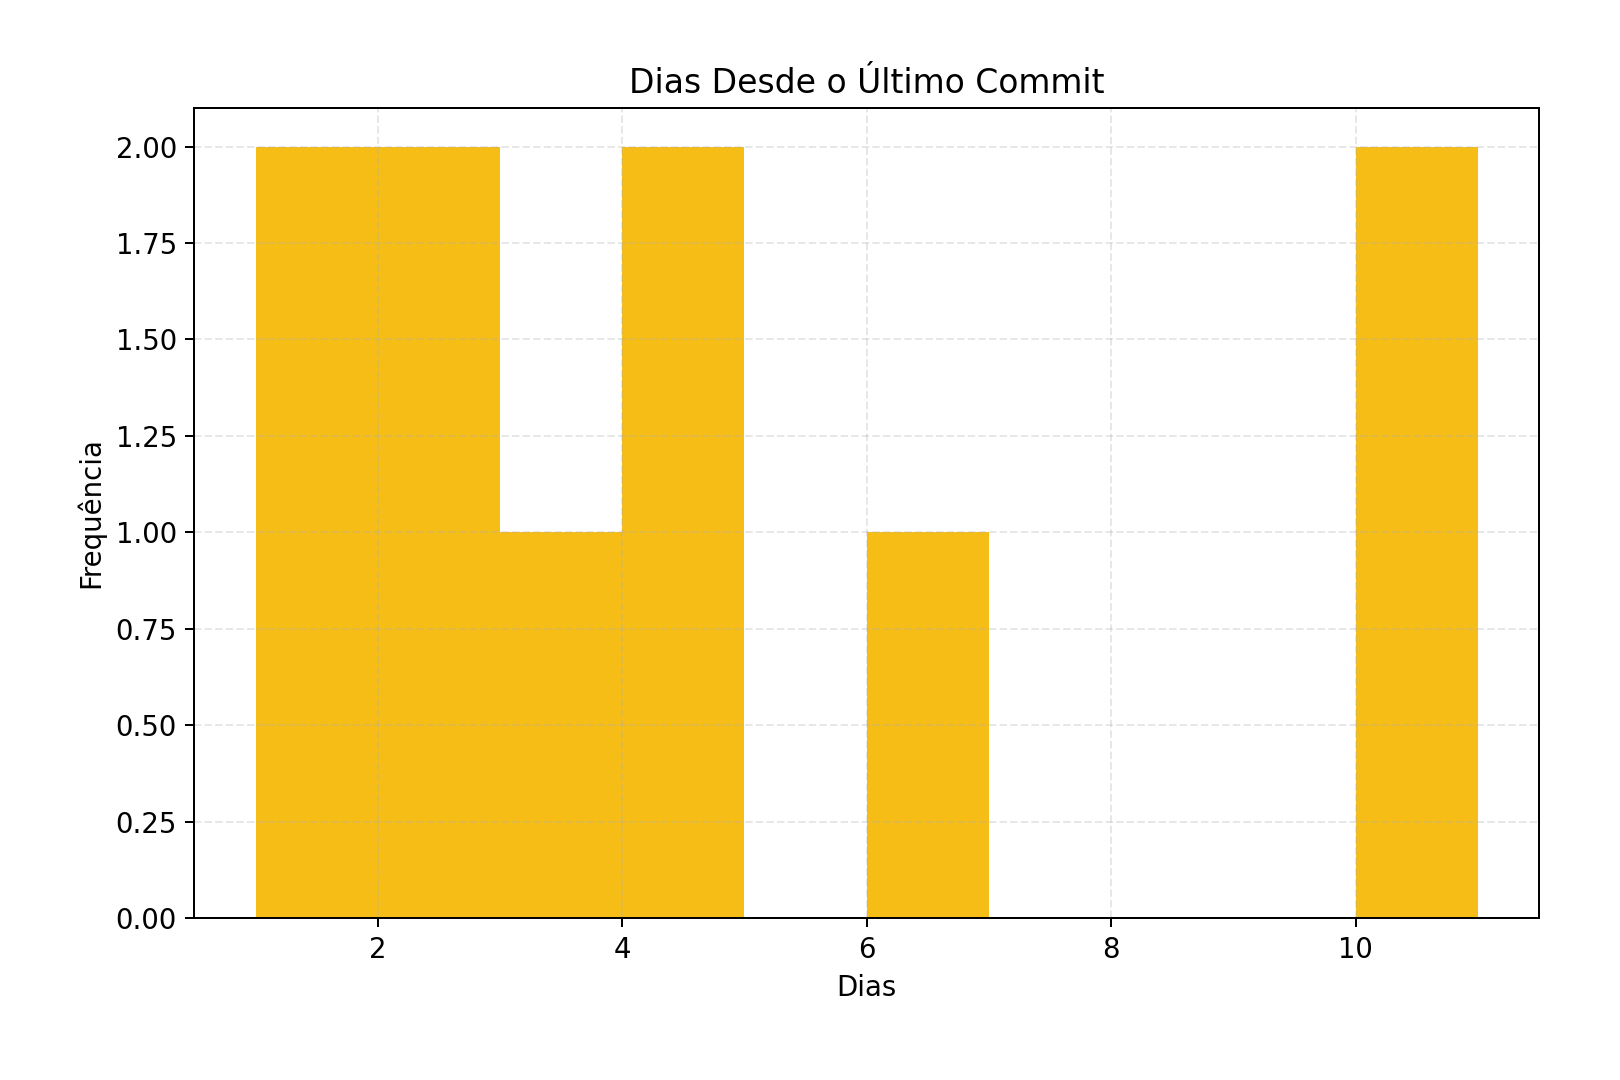
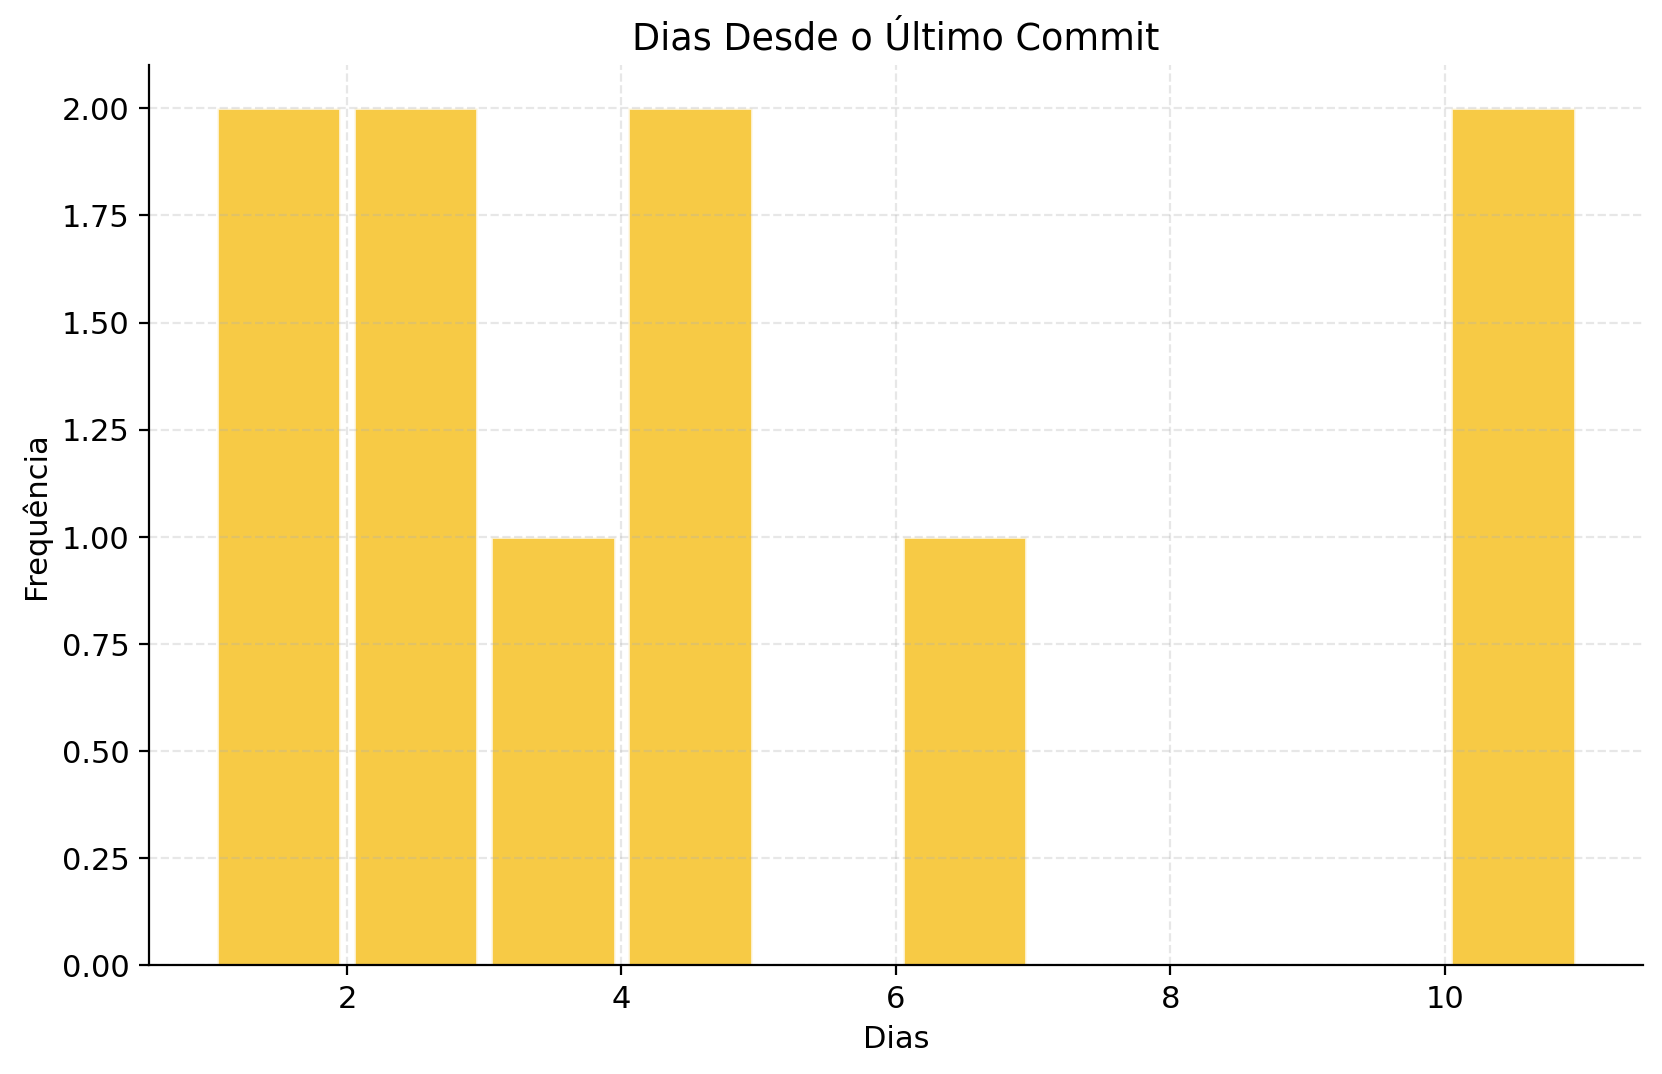
novos graficos

diff --git a/src/data_characterization.py b/src/data_characterization.py
@@ -3,7 +3,15 @@ import pandas as pd
 from pathlib import Path
 from utils import load_dataset
 
-plt.rcParams["font.size"] = 11
+# Configurações globais de estilo
+plt.rcParams.update({
+    "font.size": 11,
+    "axes.spines.top": False,
+    "axes.spines.right": False,
+    "axes.grid": True,
+    "grid.alpha": 0.3,
+    "grid.linestyle": "--"
+})
 
 def characterize(csv_path: str, out_dir: str):
     out = Path(out_dir)
@@ -13,50 +21,54 @@ def characterize(csv_path: str, out_dir: str):
     def save_fig(name: str):
         plt.tight_layout()
         plt.subplots_adjust(top=0.9, bottom=0.15, left=0.12, right=0.95)
-        plt.grid(alpha=0.3, linestyle="--")
-        plt.savefig(out / name, dpi=180)
+        plt.savefig(out / name, dpi=200, bbox_inches="tight")
         plt.close()
 
     # 1) Linguagens
-    fig, ax = plt.subplots(figsize=(9,6))
-    df["language"].value_counts().sort_values(ascending=False).plot(kind="bar", ax=ax, color="#5B8FF9")
+    fig, ax = plt.subplots(figsize=(9, 6))
+    df["language"].value_counts().sort_values(ascending=False).plot(
+        kind="bar", ax=ax, color="#5B8FF9", edgecolor="white", width=0.8
+    )
     ax.set_title("Distribuição de Repositórios por Linguagem")
     ax.set_xlabel("Linguagem")
     ax.set_ylabel("Quantidade")
+    plt.xticks(rotation=30, ha="right")
     save_fig("caracterizacao_linguagens.png")
 
-    # 2) Stars
-    fig, ax = plt.subplots(figsize=(9,6))
-    df["stars"].plot(kind="hist", bins=10, color="#FF9F6E", ax=ax)
+    # 2) Stars (Histograma)
+    fig, ax = plt.subplots(figsize=(9, 6))
+    ax.hist(df["stars"].dropna(), bins=15, color="#FF9F6E",
+            edgecolor="white", alpha=0.8, rwidth=0.9)
     ax.set_title("Distribuição de Stars")
     ax.set_xlabel("Stars")
     ax.set_ylabel("Frequência")
     save_fig("caracterizacao_stars_hist.png")
 
-    # 3) Forks vs Stars
-    fig, ax = plt.subplots(figsize=(9,6))
-    df.plot(kind="scatter", x="stars", y="forks", ax=ax, color="#5AD8A6", alpha=0.7)
+    # 3) Forks vs Stars (Dispersão)
+    fig, ax = plt.subplots(figsize=(9, 6))
+    ax.scatter(df["stars"], df["forks"], color="#5AD8A6", alpha=0.7, edgecolors="none")
     ax.set_title("Relação Stars × Forks")
     ax.set_xlabel("Stars")
     ax.set_ylabel("Forks")
     save_fig("caracterizacao_stars_vs_forks.png")
 
-    # 4) Idade dos Repositórios
-    fig, ax = plt.subplots(figsize=(9,6))
-    df["age_years"].plot(kind="hist", bins=10, color="#9270CA", ax=ax)
+    # 4) Idade dos Repositórios (Histograma)
+    fig, ax = plt.subplots(figsize=(9, 6))
+    ax.hist(df["age_years"].dropna(), bins=10, color="#9270CA",
+            edgecolor="white", alpha=0.8, rwidth=0.9)
     ax.set_title("Distribuição da Idade dos Repositórios (anos)")
     ax.set_xlabel("Idade (anos)")
     ax.set_ylabel("Frequência")
     save_fig("caracterizacao_idade_hist.png")
 
-    # 5) Dias desde último commit
-    fig, ax = plt.subplots(figsize=(9,6))
-    df["days_since_last_commit"].plot(kind="hist", bins=10, color="#F6BD16", ax=ax)
+    # 5) Dias desde o Último Commit (Histograma)
+    fig, ax = plt.subplots(figsize=(9, 6))
+    ax.hist(df["days_since_last_commit"].dropna(), bins=10, color="#F6BD16",
+            edgecolor="white", alpha=0.8, rwidth=0.9)
     ax.set_title("Dias Desde o Último Commit")
     ax.set_xlabel("Dias")
     ax.set_ylabel("Frequência")
     save_fig("caracterizacao_dias_ultimo_commit.png")
-
 
 if __name__ == "__main__":
     import argparse
